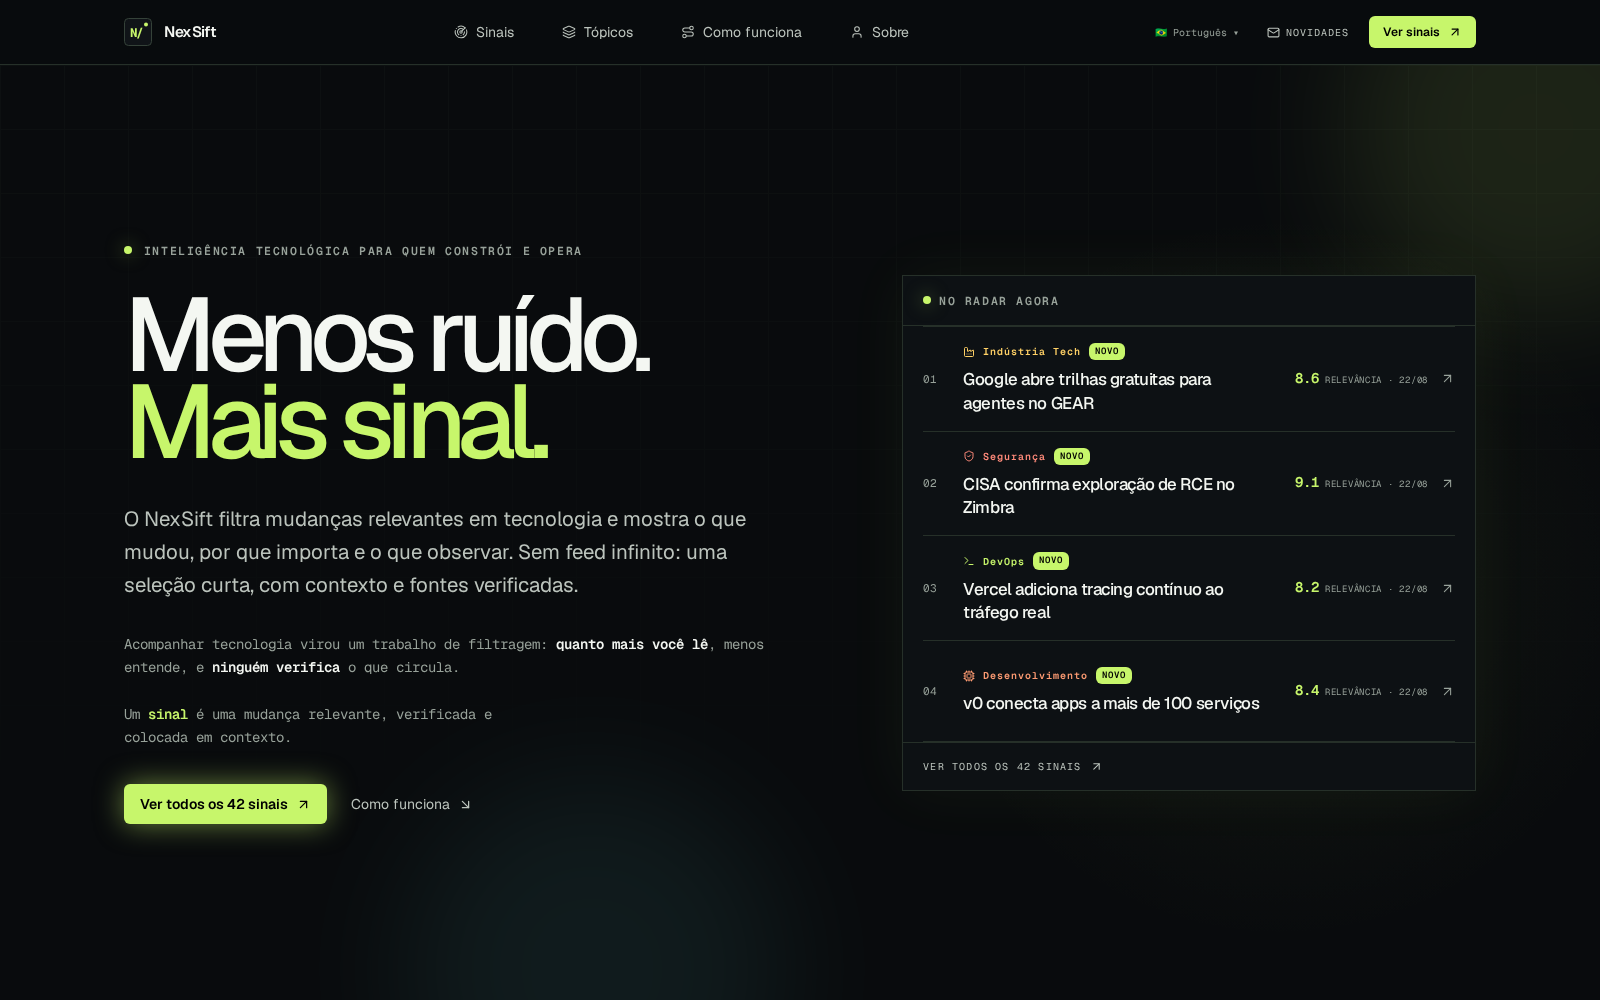
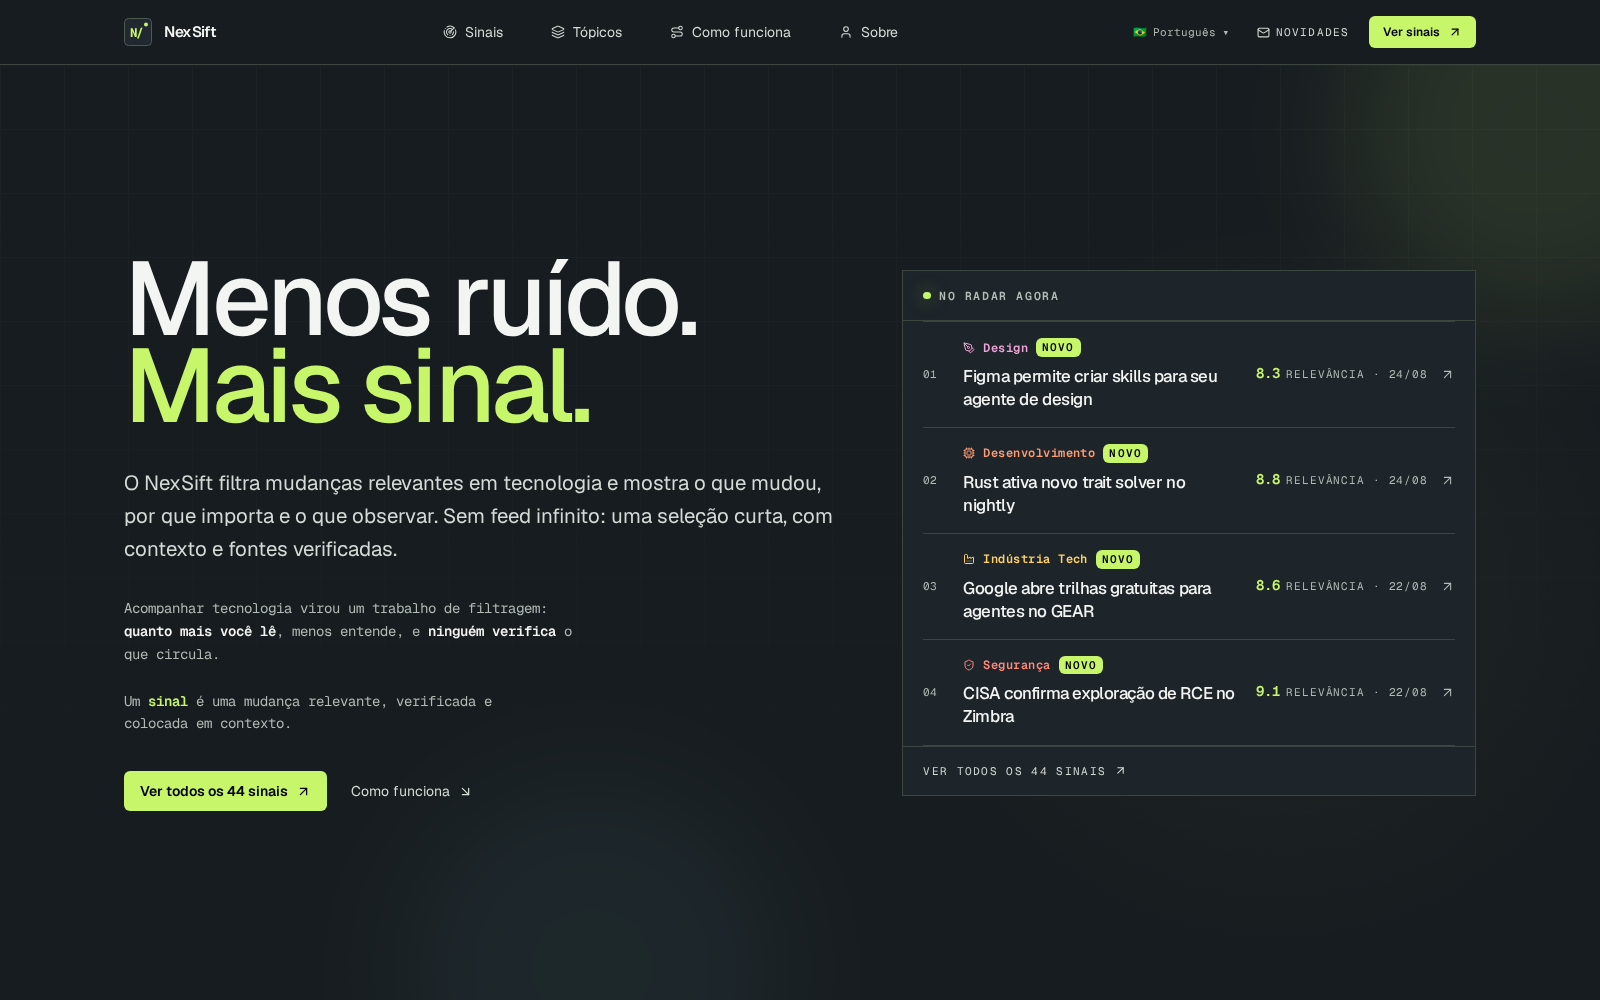
chore: refresh NexSift screenshots

diff --git a/src/features/home/sections/ProjectsSection.tsx b/src/features/home/sections/ProjectsSection.tsx
@@ -10,9 +10,9 @@ import { ProjectItem } from "../components/ProjectItem";
 
 const nexsiftFigures = [
   {
-    src: "/projects/nexsift/radar.png",
-    altKey: "radarAlt",
-    captionKey: "radarCaption",
+    src: "/projects/nexsift/ai.png",
+    altKey: "aiAlt",
+    captionKey: "aiCaption",
   },
   {
     src: "/projects/nexsift/topics.png",
